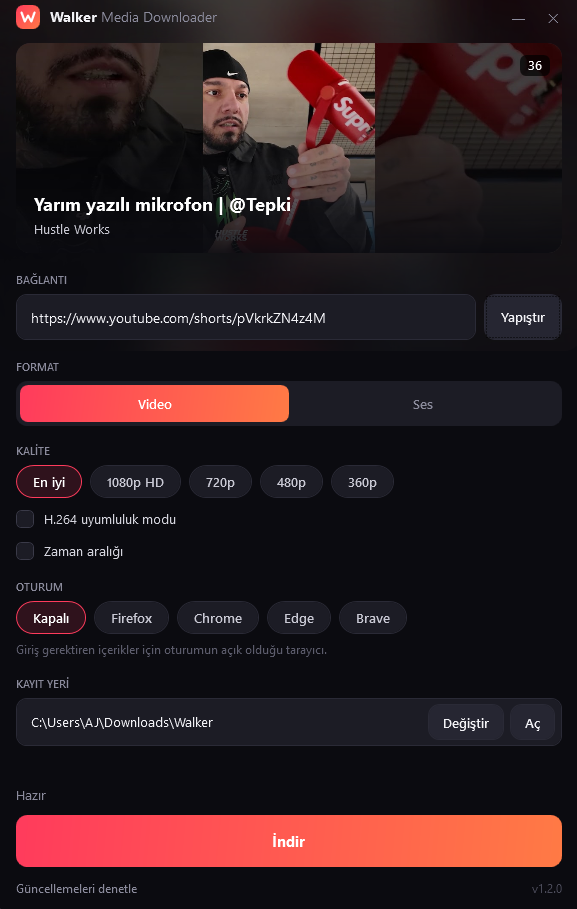
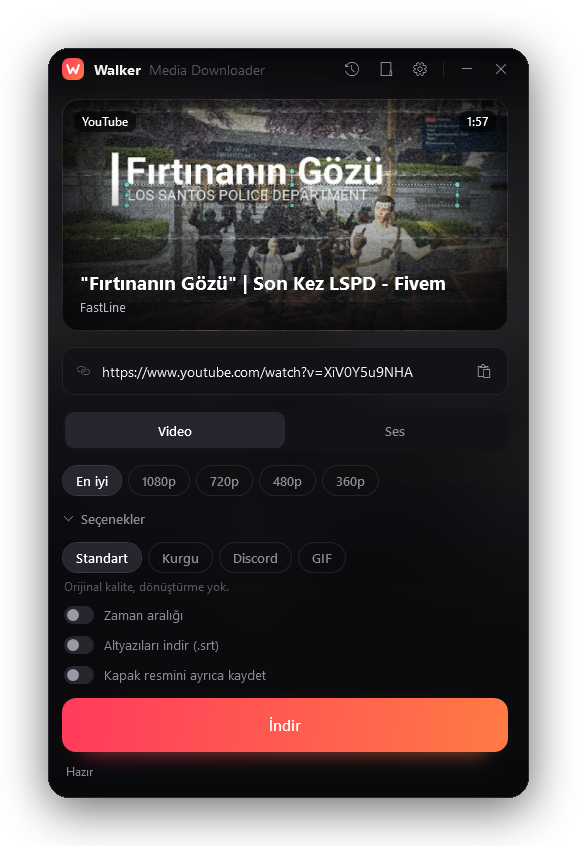
Add files via upload

diff --git a/README.md b/README.md
@@ -1,11 +1,11 @@
 <p align="center">
-  <img src="screenshot.png" width="420" alt="Walker Media Downloader">
+  <img src="screenshot.png" width="460" alt="Walker Media Downloader">
 </p>
 
 <h1 align="center">Walker Media Downloader</h1>
 
 <p align="center">
-  YouTube ve X (Twitter) videolarını MP4 ya da MP3 olarak indirmek için sade bir Windows uygulaması.
+  YouTube, X, Instagram, TikTok ve daha fazlasından video ve ses indirmek için sade bir Windows uygulaması.
 </p>
 
 <p align="center">
@@ -16,14 +16,26 @@
 
 ## Özellikler
 
-- YouTube, YouTube Shorts, YouTube Music ve X (Twitter) desteği
-- Video için 4K'ya kadar kalite seçimi, isteğe bağlı H.264 uyumluluk modu
-- Ses için MP3 (128–320 kbps), M4A, FLAC ve WAV
+**İndirme**
+- YouTube, X (Twitter), Instagram, TikTok, Twitch, Reddit, SoundCloud ve Facebook desteği
+- Video için 4K'ya kadar kalite, ses için MP3 (128–320 kbps), M4A, FLAC ve WAV
+- İndirme kuyruğu: indirme sürerken yeni bağlantılar sıraya eklenir
 - Videonun yalnızca belirli bir aralığını indirme
-- Playlist ve çoklu videolu X gönderileri
-- Giriş gerektiren içerikler için tarayıcı oturumu desteği (Firefox, Chrome, Edge, Brave)
-- Kapak görseli ve etiketler dosyaya otomatik eklenir
-- İndirme hızı, kalan süre ve görev çubuğunda ilerleme
+- Playlist ve çoklu videolu gönderiler
+- Altyazı (.srt) ve kapak resmi indirme
+
+**Dönüştürme**
+- Discord: videoyu 10, 50 veya 500 MB sınırına sığacak şekilde sıkıştırır
+- GIF: seçilen aralığı GIF olarak kaydeder
+- Kurgu: sabit kare hızlı dışa aktarma, CapCut ve Premiere'de ses kaymadan açılır
+
+**Kullanım kolaylığı**
+- Kopyalanan bağlantıları otomatik algılama
+- Tarayıcıdan sürükle bırak
+- Kapak resimli indirme geçmişi
+- İndirme bitince Windows bildirimi
+- Uygulama içi otomatik güncelleme
+- Türkçe ve İngilizce arayüz
 
 ## Kurulum
 
@@ -34,6 +46,8 @@
 
 > Windows "Bilgisayarınız korundu" uyarısı gösterirse **Ek bilgi → Yine de çalıştır** seçeneğini kullan. Uygulama henüz dijital olarak imzalı olmadığı için bu uyarı çıkar.
 
+> Instagram çoğu içerik için giriş istiyor. Bağlantı okunamazsa **Oturum** bölümünden Instagram hesabının açık olduğu tarayıcıyı seç.
+
 ## Gereksinimler
 
 - Windows 10 veya Windows 11 (64-bit)
@@ -41,7 +55,7 @@
 
 ## Kullanım
 
-1. Bir YouTube veya X bağlantısı yapıştır. Panoda bağlantı varsa uygulama açılırken otomatik doldurulur.
+1. Bir YouTube, X veya Instagram bağlantısı yapıştır. Panoda bağlantı varsa uygulama açılırken otomatik doldurulur.
 2. Video ya da Ses seç, kaliteyi belirle.
 3. **İndir**'e bas. Dosyalar varsayılan olarak `İndirilenler\Walker` klasörüne kaydedilir; bu klasör uygulamadan değiştirilebilir.
 
